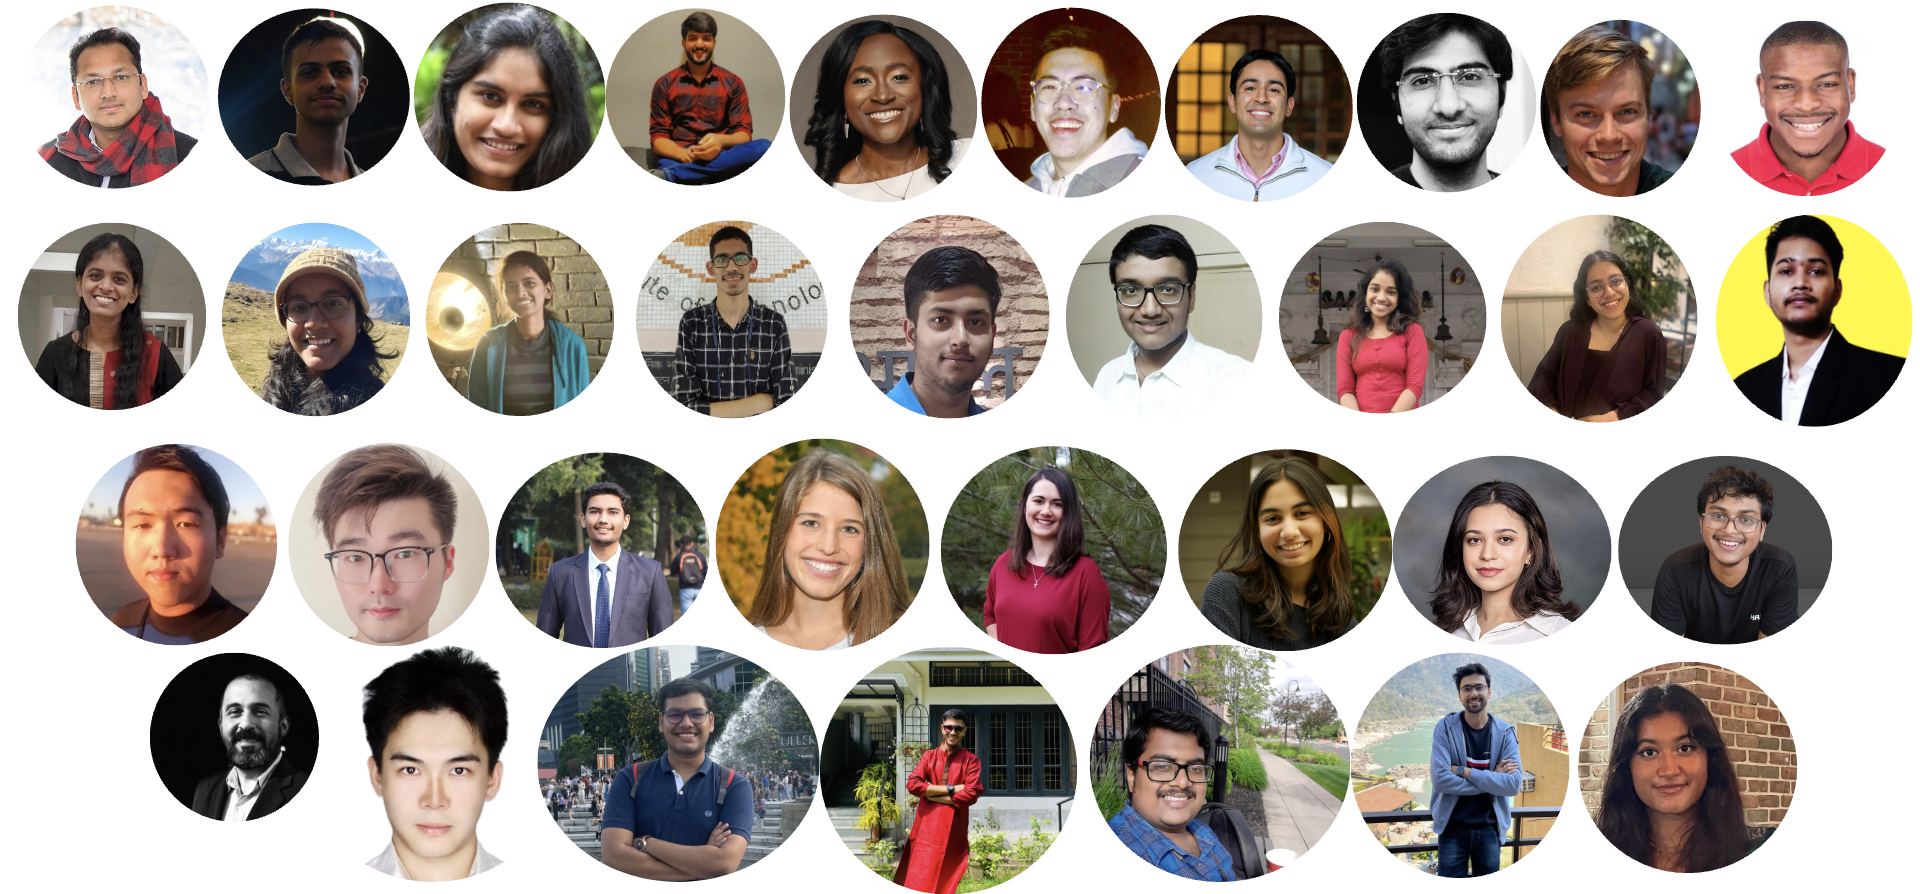
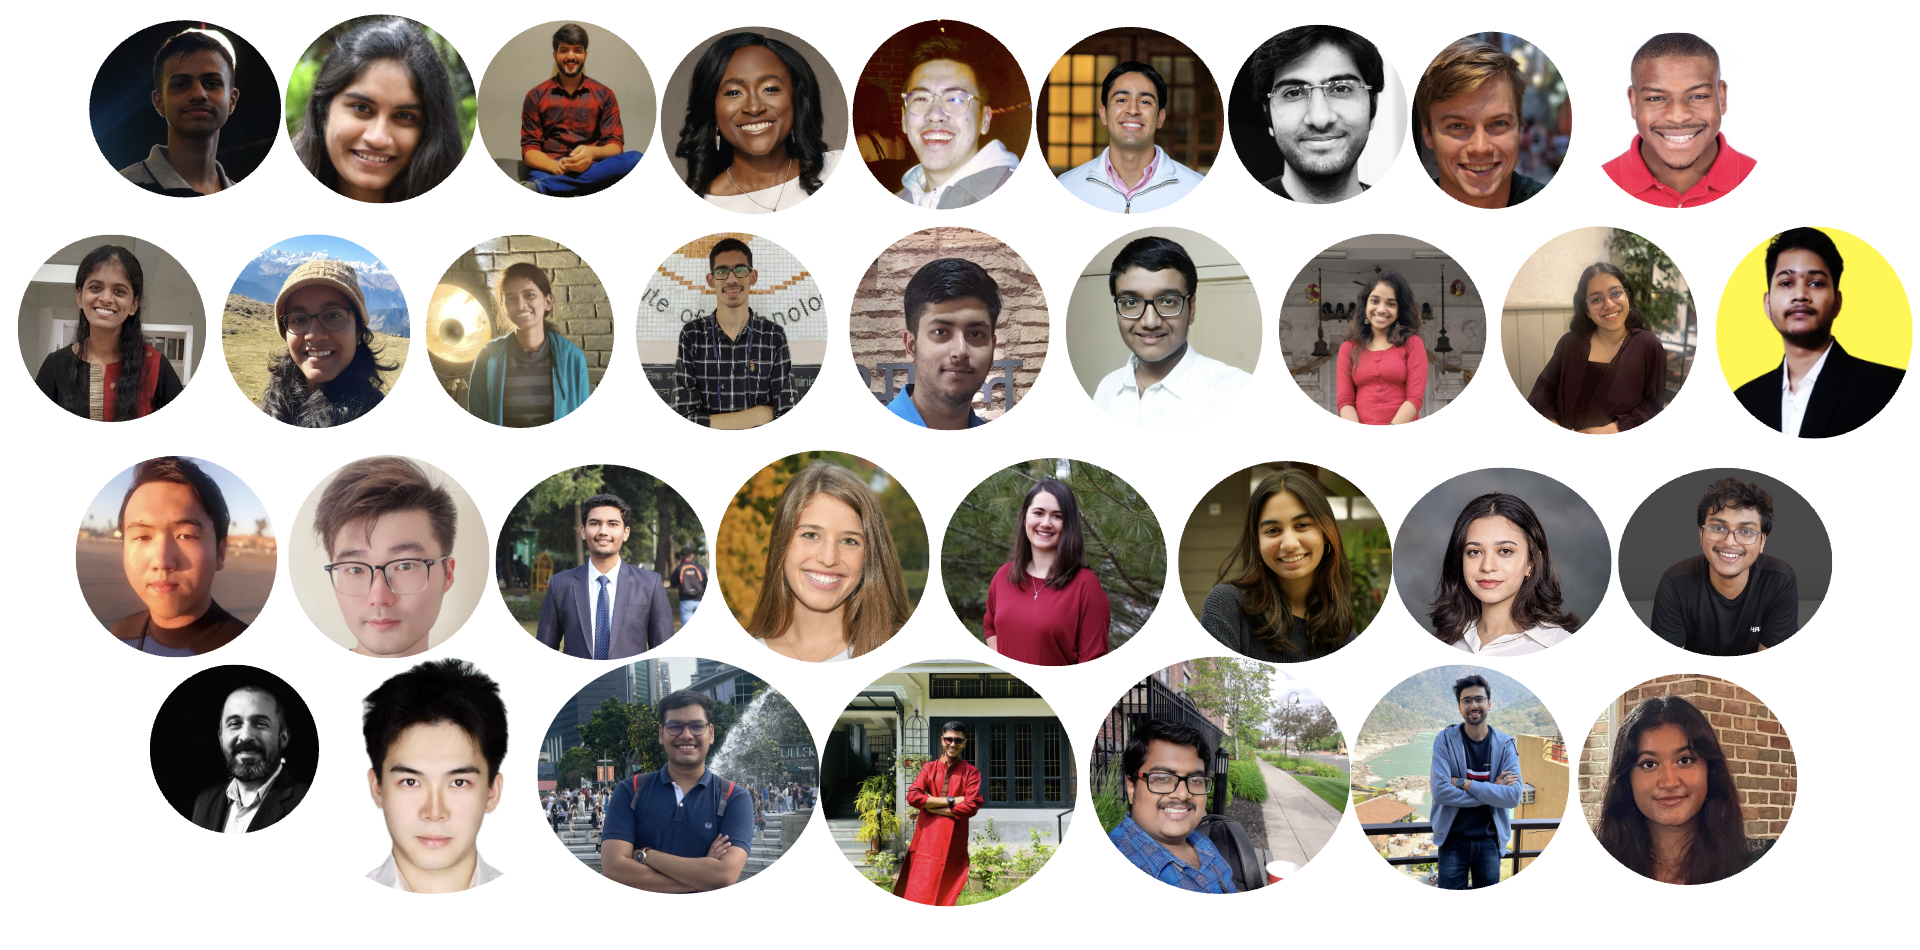
contact updates
resolve merge conflicts#

diff --git a/contact.html b/contact.html
@@ -10,9 +10,10 @@
     <link rel="icon" type="image/x-icon" href="assets/favicon.ico" />
     <!-- font awesome -->
     <script src="https://use.fontawesome.com/releases/v6.3.0/js/all.js" crossorigin="anonymous"></script>
-    <!-- core theme CSS )-->
+    <!-- core theme CSS -->
     <link href="css/styles.css" rel="stylesheet" />
-<<<<<<< HEAD
+    <script src="js/lib/tsne.js"></script>
+    <script src="https://d3js.org/d3.v7.min.js"></script>
     <style>
         body {
             font-size: 0.8em;
@@ -28,10 +29,6 @@
             background-color: #a70000;
         }
         
-        .navbar.scrolled {
-            background-color: #a70000 !important;
-        }
-        
         .navbar-nav .nav-link {
             color: #ffffff !important;
         }
@@ -40,52 +37,31 @@
             color: #ffffff !important;
         }
         
-        @media (min-width: 992px) {
-            header.masthead {
-                padding-top: 6rem;
-                padding-bottom: 4rem;
-            }
-            header.masthead .page-heading h1,
-            header.masthead .page-heading .h1,
-            header.masthead .site-heading h1,
-            header.masthead .site-heading .h1 {
-                font-size: 3rem;
-            }
-            header.masthead .post-heading h1,
-            header.masthead .post-heading .h1 {
-                font-size: 2.5rem;
-            }
-            header.masthead .post-heading .subheading {
-                font-size: 1.5rem;
-            }
-        }
-        
         .team-container {
             display: flex;
-            justify-content: center;
+            flex-direction: row;
+            /* Changed to row for side-by-side layout */
             align-items: center;
-            gap: 40px;
+            justify-content: center;
+            /* Centering the team members */
             padding-top: 20px;
         }
         
         .team-member {
             text-align: center;
             width: 140px;
-            display: flex;
-            flex-direction: column;
-            align-items: center;
+            margin: 0 20px;
+            /* Adds spacing between the team members */
         }
         
         .team-member img {
             border-radius: 50%;
-            width: 100px;
-            height: 100px;
+            width: 140px;
+            /* Ensures both images have the same width */
+            height: 140px;
+            /* Ensures both images have the same height */
             object-fit: cover;
             margin-bottom: 12px;
-        }
-        
-        .team-member:nth-child(2) {
-            margin-top: -10px;
         }
         
         .team-member p {
@@ -94,18 +70,25 @@
             font-size: 0.9em;
         }
         
-        .team-member p.name {
+        .team-member .name {
             font-weight: bold;
+            color: black;
         }
         
-        .team-member p.title {
+        .team-member .title {
             color: #666;
+            font-size: 0.9em;
+            margin: 4px 0;
+        }
+        
+        .contributors-section {
+            margin-top: 20px;
         }
         
         .additional-photo {
             display: flex;
             justify-content: center;
-            margin-top: 30px;
+            margin-top: 10px;
         }
         
         .additional-photo img {
@@ -117,11 +100,27 @@
         .container {
             max-width: 90%;
         }
+        
+        .team-member:nth-child(1) {
+            top: 0;
+            left: 65%;
+            transform: translate(-50%, 8%);
+        }
+        
+        .team-member:nth-child(2) {
+            top: 0;
+            left: 25%;
+            transform: translate(-50%, 10%);
+        }
     </style>
+<<<<<<< HEAD
 =======
     <script src="js/lib/tsne.js"></script>
     <script src="https://d3js.org/d3.v7.min.js"></script>
 >>>>>>> 48a22e8 (Updated)
+=======
+
+>>>>>>> 39eb364 (contact updates)
 </head>
 
 <body>
@@ -141,55 +140,59 @@
         </div>
     </nav>
 
-<<<<<<< HEAD
-=======
     <!-- Page Header-->
+<<<<<<< HEAD
 >>>>>>> 48a22e8 (Updated)
+=======
+>>>>>>> 39eb364 (contact updates)
     <header class="masthead" style="background-color: #a70000;">
-        <div class="container position-relative px-2 px-lg-3">
-            <div class="row gx-2 gx-lg-3 justify-content-center">
+        <div class="container position-relative px-3 px-lg-4">
+            <div class="row gx-3 gx-lg-4 justify-content-center">
                 <div class="col-md-10 col-lg-8 col-xl-7">
-                    <div class="site-heading" style="margin-bottom: 100px;">
+                    <div class="page-heading">
                         <h1>Contact Us</h1>
-                        <span class="subheading"> Interested in getting involved? </span>
+                        <span class="subheading">Interested in getting involved?</span>
                     </div>
                 </div>
             </div>
         </div>
     </header>
-
+    <!-- Main Content-->
     <main class="mb-4">
         <div class="container px-3 px-lg-4">
             <div class="row gx-3 gx-lg-4 justify-content-center">
                 <div class="col-md-10 col-lg-8 col-xl-7" style="text-align: center;">
-                    <h2>Project Leaders</h2>
+                    <h2 style="color:black">Project Leaders</h2>
                     <div class="team-container">
+                        <!-- Vijay -->
                         <div class="team-member">
                             <img src="images/vijay.jpg" alt="Professor Vijay Janapa Reddi">
                             <p class="name">Professor Vijay Janapa Reddi</p>
                             <p class="title">Director of Edge Computing Lab</p>
-                            <p>vj@eecs.harvard.edu</p>
+                            <p style="color:black">vj@eecs.harvard.edu</p>
                         </div>
+                        <!-- Shvetank -->
                         <div class="team-member">
                             <img src="images/shvetankprakashpic.jpg" alt="Shvetank Paraksh">
                             <p class="name">Shvetank Paraksh</p>
                             <p class="title">Graduate Student at Harvard</p>
-                            <p>sprakash@g.harvard.edu</p>
+                            <p style="color:black">sprakash@g.harvard.edu</p>
                         </div>
                     </div>
-                    <br><br>
-                    <h2>Contributors</h2>
-                    <div class="additional-photo">
-                        <img src="images/contributors.png" alt="Additional Team Photo">
+                    <div class="contributors-section">
+                        <h2 style="color:black; margin-top: -200px;">Contributors</h2>
+                        <div class="additional-photo">
+                            <img src="images/contributors.png" alt="Additional Team Photo">
+                        </div>
                     </div>
                 </div>
             </div>
         </div>
     </main>
-
+    <!-- Footer-->
     <footer class="border-top">
-        <div class="container px-4 px-lg-5">
-            <div class="row gx-4 gx-lg-5 justify-content-center">
+        <div class="container px-3 px-lg-4">
+            <div class="row gx-3 gx-lg-4 justify-content-center">
                 <div class="col-md-10 col-lg-8 col-xl-7">
                     <ul class="list-inline text-center">
                         <li class="list-inline-item">
@@ -207,7 +210,9 @@
         </div>
     </footer>
 
+    <!-- Bootstrap core JS-->
     <script src="https://cdn.jsdelivr.net/npm/bootstrap@5.2.3/dist/js/bootstrap.bundle.min.js"></script>
+    <!-- Core theme JS-->
     <script src="js/scripts.js"></script>
 </body>
 
